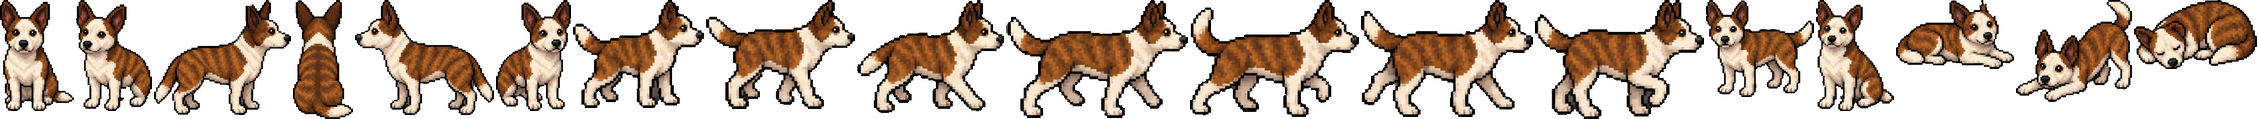
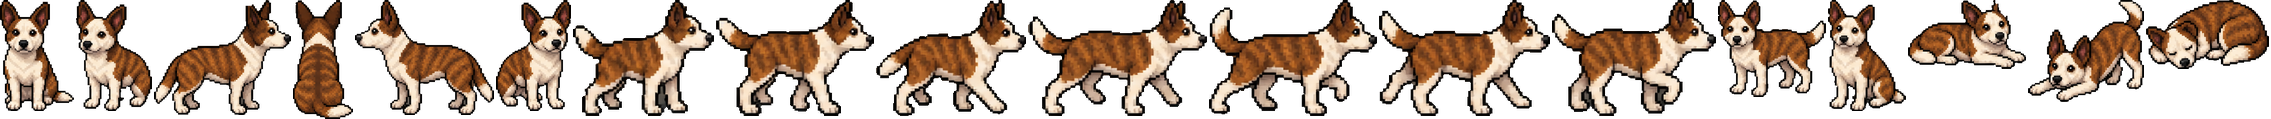
Give her a real side-on walk and steady the dog's trot
The supplied walk frames were all the same spread-legged pose, so the
cycle looked like a frozen stride gliding along. Walk sideways is now
animated from her side-view pose split into layers (assets/her-walk.png):
each leg swings from the hip, bends at the knee as it passes under her,
and alternates with a shaded far leg; her hips dip as her feet spread
and rise as they pass, and she leans into the walk (more when running).
Walking up or down steps on the same rhythm.

The dog's walk frames were drawn at different sizes, so it pulsed as it
walked; every frame is now the same height, with a small trotting
bounce in time with its steps.

Claude-Session: https://claude.ai/code/session_01CYk3xYTLtQ9wMMS1b1SGUS

diff --git a/game.js b/game.js
@@ -130,7 +130,9 @@ const player = {
   facing: saved?.facing ?? Math.PI / 2, // radians; starts facing down, toward the viewer
   walkTime: 0,
   seat: null, // one of the room's seats while sitting
-  stride: 0, // distance walked, drives the walk-cycle frame
+  stride: 0, // distance walked, drives stepping when walking up or down
+  gait: 0, // stride cycles walked, drives the side-on walk
+  running: false,
   moveDx: 0, // direction of the last step
   moveDy: 0,
   idleTime: 0, // how long she's been standing still
@@ -455,7 +457,9 @@ function updatePlayer(dt) {
   // Move each axis separately so the player slides along walls/furniture.
   if (isFree(player.x + mx, player.y)) player.x += mx;
   if (isFree(player.x, player.y + my)) player.y += my;
-  player.stride += step / room.scale / (running ? Math.sqrt(RUN_SPEED / WALK_SPEED) : 1);
+  player.stride += step / room.scale;
+  player.gait += step / room.scale / (running ? GAIT.runCycle : GAIT.walkCycle);
+  player.running = running;
 
   player.facing = Math.atan2(dy, dx);
   player.walkTime += dt * (running ? 1.8 : 1);
@@ -547,8 +551,31 @@ const HER_FRAMES = {
   couchBack: { r: [189, 692, 117, 195], ax: 56, ay: 190 },
   couchBackLeft: { r: [308, 692, 168, 259], ax: 127, ay: 188 },
 };
-const HER_WALK = ['walk1', 'walk2', 'walk3', 'walk4', 'walk5', 'walk6', 'walk7', 'walk8', 'walk9'];
-const HER_STEP = 20; // map px travelled per walk frame (~8 frames a second walking)
+// Walking sideways is animated from her side-view pose split into layers
+// (assets/her-walk.png, each layer 90 x 342 like the 'right' pose): upper body,
+// thigh, shin + shoe, and darker copies of the leg for the far side. Legs swing
+// from the hip and bend at the knee; she dips as her feet spread and rises as
+// they pass, which is what gives a walk its weight.
+const herWalkImg = new Image();
+herWalkImg.src = 'assets/her-walk.png';
+const SIDE = {
+  w: 90, h: 342, ax: 54, ay: 342,
+  hip: { x: 53, y: 200 },
+  knee: { x: 51, y: 252 },
+  thigh: 52, // hip to knee, sprite px
+  shin: 90, // knee to sole
+};
+const SIDE_LAYERS = { upper: 0, thigh: 1, shin: 2, thighFar: 3, shinFar: 4 };
+const GAIT = {
+  walkCycle: 150, // map px per full stride (two steps)
+  runCycle: 230,
+  swing: 0.42, // hip swing, radians each way
+  runSwing: 0.62,
+  knee: 0.85, // knee bend at mid-swing
+  runKnee: 1.25,
+  lean: 0.035, // leans into the walk a little
+  runLean: 0.08,
+};
 const HER_LEG_LIFT = 14; // sprite px a foot rises when walking straight up or down
 
 // Idle routine: after a short pause she strikes a pose now and then, and after a
@@ -591,10 +618,7 @@ function facingAway(facing) {
 function playerPose() {
   if (player.seat) return seatedPose(player.seat);
   if (player.walkTime > 0) {
-    if (player.moveDx !== 0) {
-      const frame = HER_WALK[Math.floor(player.stride / HER_STEP) % HER_WALK.length];
-      return { name: frame, mirror: player.moveDx < 0 };
-    }
+    if (player.moveDx !== 0) return { name: 'right', mirror: player.moveDx < 0, side: true };
     return { name: player.moveDy < 0 ? 'back' : 'front', stepping: true };
   }
   if (player.cheer > 0) return { name: 'happy' };
@@ -657,9 +681,11 @@ function drawPlayer() {
   ctx.scale(pose.mirror ? -0.5 : 0.5, 0.5);
   ctx.imageSmoothingQuality = 'high';
 
-  if (pose.stepping) {
+  if (pose.side) {
+    drawSideWalk();
+  } else if (pose.stepping) {
     // Walking straight toward or away from the viewer: step each leg in turn.
-    const s = Math.sin(player.stride / HER_STEP * Math.PI / 2);
+    const s = Math.sin(player.gait * Math.PI * 2); // same rhythm as the side-on walk
     const liftL = Math.max(0, s) * HER_LEG_LIFT;
     const liftR = Math.max(0, -s) * HER_LEG_LIFT;
     const bob = -Math.abs(s) * 3;
@@ -672,6 +698,54 @@ function drawPlayer() {
     const nudge = player.seat && reading.flipTime > 0 ? Math.sin((reading.flipTime / 0.25) * Math.PI) * 3 : 0;
     blitHer(f, 0, 0, w, h, 0, nudge);
   }
+  ctx.restore();
+}
+
+function sideLayer(layer) {
+  ctx.drawImage(herWalkImg, layer * SIDE.w, 0, SIDE.w, SIDE.h, 0, 0, SIDE.w, SIDE.h);
+}
+
+function drawSideLeg(thighLayer, shinLayer, hipAngle, kneeAngle) {
+  const { hip, knee } = SIDE;
+  ctx.save();
+  ctx.translate(hip.x, hip.y);
+  ctx.rotate(hipAngle);
+  ctx.translate(-hip.x, -hip.y);
+  sideLayer(thighLayer);
+  ctx.translate(knee.x, knee.y);
+  ctx.rotate(kneeAngle);
+  ctx.translate(-knee.x, -knee.y);
+  sideLayer(shinLayer);
+  ctx.restore();
+}
+
+// One leg's hip and knee angles at this point in the stride. Positive angles
+// swing the foot backward; the knee bends most while the leg swings through.
+function legAngles(phase, run) {
+  const swing = run ? GAIT.runSwing : GAIT.swing;
+  const bend = run ? GAIT.runKnee : GAIT.knee;
+  const hip = -swing * Math.sin(phase);
+  const knee = bend * Math.pow(Math.max(0, Math.cos(phase)), 1.5) + 0.06;
+  return { hip, knee };
+}
+
+function drawSideWalk() {
+  if (!spriteReady(herWalkImg)) return;
+  const phase = player.gait * Math.PI * 2;
+  const run = player.running;
+  const near = legAngles(phase, run);
+  const far = legAngles(phase + Math.PI, run);
+  // Keep the lower foot on the floor: the more the legs spread, the lower the hips.
+  const footY = (a) => SIDE.thigh * Math.cos(a.hip) + SIDE.shin * Math.cos(a.hip + a.knee);
+  const drop = SIDE.thigh + SIDE.shin - Math.max(footY(near), footY(far));
+  ctx.translate(-SIDE.ax, -SIDE.ay + drop);
+  drawSideLeg(SIDE_LAYERS.thighFar, SIDE_LAYERS.shinFar, far.hip, far.knee);
+  drawSideLeg(SIDE_LAYERS.thigh, SIDE_LAYERS.shin, near.hip, near.knee);
+  ctx.save();
+  ctx.translate(SIDE.hip.x, SIDE.hip.y);
+  ctx.rotate(-(run ? GAIT.runLean : GAIT.lean) - Math.abs(Math.sin(phase)) * 0.015);
+  ctx.translate(-SIDE.hip.x, -SIDE.hip.y);
+  sideLayer(SIDE_LAYERS.upper);
   ctx.restore();
 }
 
@@ -804,18 +878,18 @@ const DOG_FRAMES = {
   back: { r: [293, 0, 60, 119] },
   left: { r: [355, 0, 139, 115] },
   frontHeadRight: { r: [496, 0, 75, 111] },
-  walk1: { r: [573, 0, 131, 108], headRight: true },
-  walk2: { r: [706, 0, 149, 109], headRight: true },
-  walk3: { r: [857, 0, 147, 113], headRight: true },
-  walk4: { r: [1006, 0, 182, 118], headRight: true },
-  walk5: { r: [1190, 0, 169, 117], headRight: true },
-  walk6: { r: [1361, 0, 172, 117], headRight: true },
-  walk7: { r: [1535, 0, 169, 119], headRight: true },
-  idle: { r: [1706, 0, 108, 97], headRight: false },
-  sit: { r: [1816, 0, 78, 111] },
-  lie: { r: [1896, 0, 118, 69], headRight: true },
-  bow: { r: [2016, 0, 116, 102], headRight: false },
-  sleep: { r: [2134, 0, 123, 69], headRight: false },
+  walk1: { r: [573, 0, 141, 116], headRight: true },
+  walk2: { r: [716, 0, 158, 116], headRight: true },
+  walk3: { r: [876, 0, 150, 116], headRight: true },
+  walk4: { r: [1028, 0, 179, 116], headRight: true },
+  walk5: { r: [1209, 0, 168, 116], headRight: true },
+  walk6: { r: [1379, 0, 171, 116], headRight: true },
+  walk7: { r: [1552, 0, 164, 116], headRight: true },
+  idle: { r: [1718, 0, 108, 97], headRight: false },
+  sit: { r: [1828, 0, 78, 111] },
+  lie: { r: [1908, 0, 118, 69], headRight: true },
+  bow: { r: [2028, 0, 116, 102], headRight: false },
+  sleep: { r: [2146, 0, 123, 69], headRight: false },
 };
 const DOG_WALK = ['walk1', 'walk2', 'walk3', 'walk4', 'walk5', 'walk6', 'walk7'];
 const DOG_STEP = 16; // map px travelled per walk frame (~10 frames a second at her pace)
@@ -1003,7 +1077,9 @@ function drawDog() {
     ctx.ellipse(0, 0, (fw / 4) * (1 - lift / 60), 5, 0, 0, Math.PI * 2);
     ctx.fill();
   }
-  ctx.translate(0, -lift);
+  // Trotting bounce: two little lifts per walk cycle
+  const trot = pose.name.startsWith('walk') ? Math.abs(Math.sin((dog.stride / DOG_STEP / DOG_WALK.length) * Math.PI * 2)) * 2.2 : 0;
+  ctx.translate(0, -lift - trot);
   ctx.scale(mirror ? -0.5 : 0.5, 0.5 * breathe);
   ctx.imageSmoothingQuality = 'high';
   ctx.drawImage(dogImg, fx, fy, fw, fh, -fw / 2, -fh, fw, fh);
